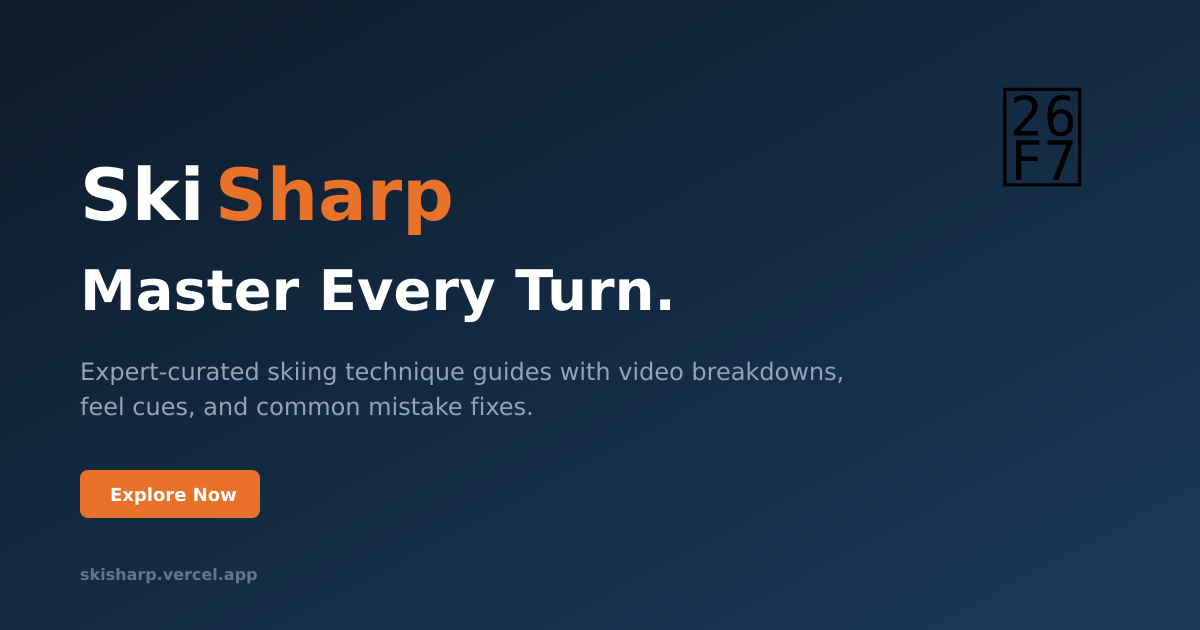
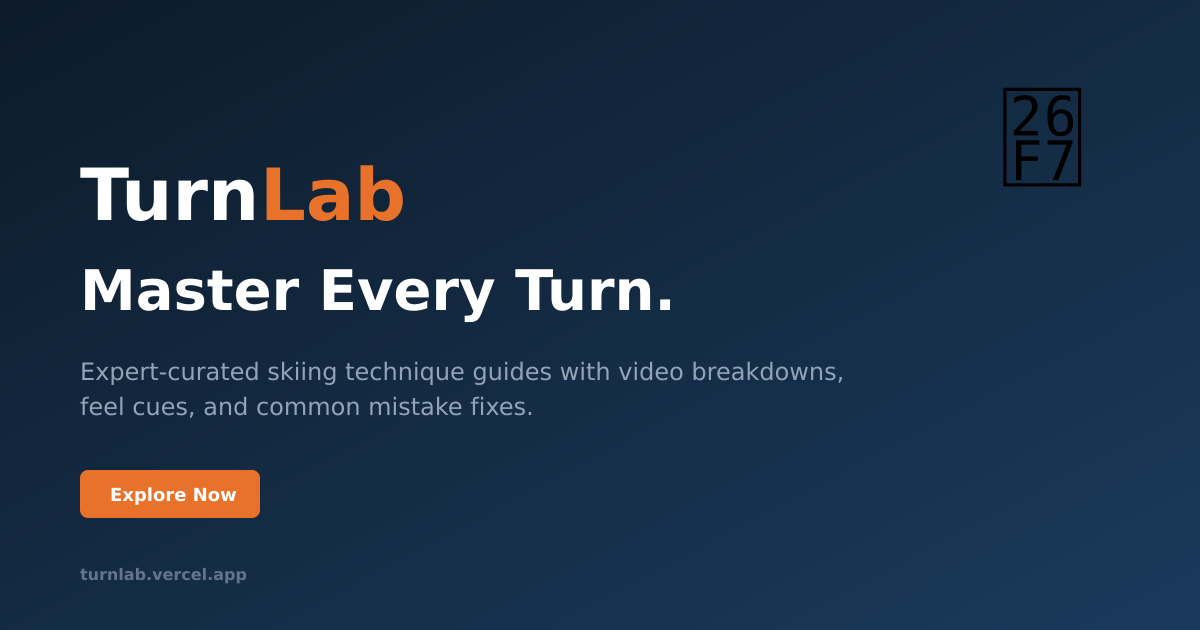
rebrand: SkiSharp → TurnLab
- Updated all branding: navbar, footer, metadata, OG image, favicon
- Favicon: TL (white T + orange L on dark bg)
- OG image: TurnLab branding with updated text
- Page titles: 'TurnLab — Master Every Turn'
- Template: '%s | TurnLab'
- Copyright: TurnLab
- Vercel URLs kept as skisharp.vercel.app until custom domain

Changed region(s): [[0.0617, 0.2413, 0.4008, 0.3921], [0.0617, 0.9048, 0.2158, 0.9349]]

diff --git a/src/app/layout.tsx b/src/app/layout.tsx
@@ -13,17 +13,17 @@ const inter = Inter({
 
 export const metadata: Metadata = {
   title: {
-    default: "SkiSharp — Master Every Turn",
-    template: "%s | SkiSharp",
+    default: "TurnLab — Master Every Turn",
+    template: "%s | TurnLab",
   },
   description:
-    "SkiSharp is a curated skiing technique knowledge hub. Learn parallel turns, mogul absorption, powder floating, and more — step by step with expert video guides.",
+    "TurnLab is a curated skiing technique knowledge hub. Learn parallel turns, mogul absorption, powder floating, and more — step by step with expert video guides.",
   keywords: ["skiing", "ski technique", "ski lessons", "moguls", "powder skiing", "parallel turns"],
   openGraph: {
-    title: "SkiSharp — Master Every Turn",
+    title: "TurnLab — Master Every Turn",
     description: "The internet's best ski instruction videos — curated, organized, and structured into learning paths that actually work.",
     url: "https://skisharp.vercel.app",
-    siteName: "SkiSharp",
+    siteName: "TurnLab",
     type: "website",
     locale: "en_US",
     images: [
@@ -31,13 +31,13 @@ export const metadata: Metadata = {
         url: "/og-image.png",
         width: 1200,
         height: 630,
-        alt: "SkiSharp — Master Every Turn",
+        alt: "TurnLab — Master Every Turn",
       },
     ],
   },
   twitter: {
     card: "summary_large_image",
-    title: "SkiSharp — Master Every Turn",
+    title: "TurnLab — Master Every Turn",
     description: "Curated skiing technique guides with step-by-step video breakdowns, feel cues, and common mistake fixes.",
     images: ["/og-image.png"],
   },

diff --git a/src/components/Footer.tsx b/src/components/Footer.tsx
@@ -24,7 +24,7 @@ export default function Footer() {
           {/* Brand */}
           <div>
             <div className="text-xl font-bold text-white mb-2">
-              Ski<span className="text-[#e8722a]">Sharp</span>
+              Turn<span className="text-[#e8722a]">Lab</span>
             </div>
             <p className="text-gray-500 text-sm leading-relaxed">
               The internet&apos;s best ski instruction — curated, organized, and free.
@@ -72,7 +72,7 @@ export default function Footer() {
 
         <div className="border-t border-white/5 pt-6 text-center">
           <p className="text-gray-600 text-xs">
-            © {new Date().getFullYear()} SkiSharp. All video content belongs to
+            © {new Date().getFullYear()} TurnLab. All video content belongs to
             their respective creators.
           </p>
         </div>

diff --git a/src/components/Navbar.tsx b/src/components/Navbar.tsx
@@ -30,7 +30,7 @@ export default function Navbar() {
         <div className="flex items-center justify-between h-16">
           {/* Logo */}
           <Link href="/" className="text-xl font-bold tracking-tight text-white">
-            Ski<span className="text-[#e8722a]">Sharp</span>
+            Turn<span className="text-[#e8722a]">Lab</span>
           </Link>
 
           {/* Desktop nav links */}
